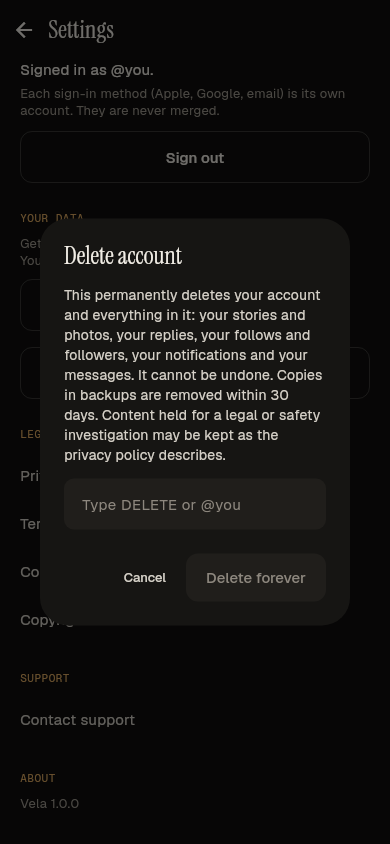
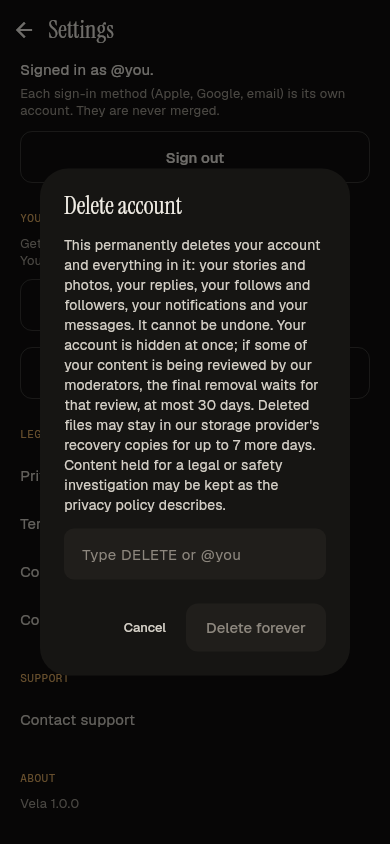
fix(app): selection haptic when a pin drops on the photo; refresh the delete-account gallery shot for the new copy
Final review M-3.

diff --git a/app/test/features/create/create_extra_test.dart b/app/test/features/create/create_extra_test.dart
@@ -1,6 +1,7 @@
 import 'dart:async';
 
 import 'package:flutter/material.dart';
+import 'package:flutter/services.dart';
 import 'package:flutter_test/flutter_test.dart';
 import 'package:vela_app/core/api/api_providers.dart';
 import 'package:vela_app/features/create/blob_uploader.dart';
@@ -12,6 +13,32 @@ import 'support/create_harness.dart';
 CreateState read(CreateHarness h) => h.container.read(createControllerProvider);
 
 void main() {
+  testWidgets('dropping_a_pin_gives_a_selection_haptic (final review M-3)', (
+    t,
+  ) async {
+    final calls = <String>[];
+    t.binding.defaultBinaryMessenger.setMockMethodCallHandler(
+      SystemChannels.platform,
+      (call) async {
+        if (call.method == 'HapticFeedback.vibrate') {
+          calls.add(call.arguments as String);
+        }
+        return null;
+      },
+    );
+    addTearDown(
+      () => t.binding.defaultBinaryMessenger.setMockMethodCallHandler(
+        SystemChannels.platform,
+        null,
+      ),
+    );
+    await pumpCreate(t);
+    await pickAndAnnotate(t);
+    calls.clear();
+    await tapPhotoAt(t, 0.5, 0.5);
+    expect(calls, ['HapticFeedbackType.selectionClick']);
+  });
+
   testWidgets('tapping_a_chapter_edits_it_in_place_keeping_order', (t) async {
     final h = await pumpCreate(t);
     await pickAndAnnotate(t);

diff --git a/app/lib/features/create/pin_editor.dart b/app/lib/features/create/pin_editor.dart
@@ -1,4 +1,7 @@
+import 'dart:async';
+
 import 'package:flutter/material.dart';
+import 'package:flutter/services.dart';
 
 import '../../core/theme/tokens.dart';
 import '../story/photo_layout.dart';
@@ -54,7 +57,10 @@ class PinEditor extends StatelessWidget {
             behavior: HitTestBehavior.opaque,
             onTapUp: (d) {
               final f = frame.toPhotoFraction(d.localPosition);
-              if (f != null) onTapPhoto(f);
+              if (f == null) return;
+              // Handoff "Interactions": a light tick when a pin drops.
+              unawaited(HapticFeedback.selectionClick());
+              onTapPhoto(f);
             },
             child: Stack(
               clipBehavior: Clip.none,
